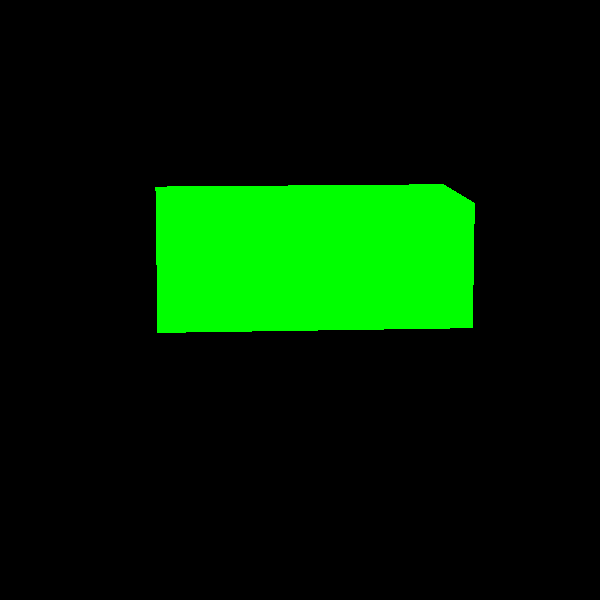
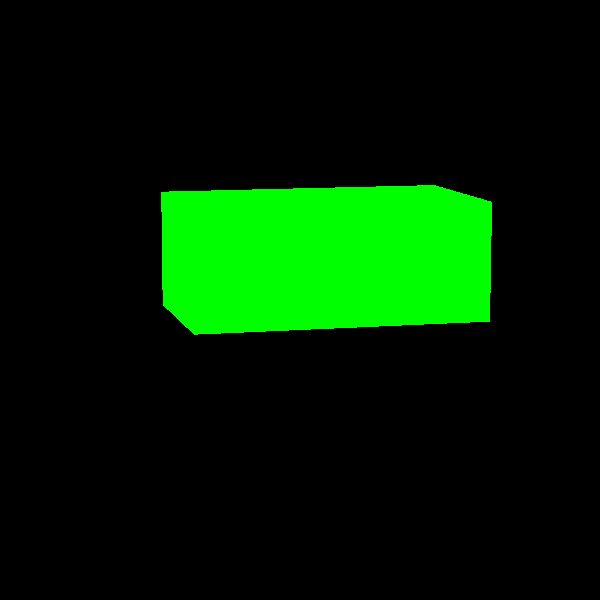
it finally output something!

diff --git a/src/main.cpp b/src/main.cpp
@@ -15,7 +15,7 @@ int main() {
     std::vector<Vec3fGrid::Ptr> VectorGrids = Reader::readGrids("dataset/single-res small.vdb");
     std::vector<vdbGrid> ScalarGrids = util::convertVectorGridsToScalarGrids(VectorGrids);
     std::shared_ptr<ImageRGB> image = std::make_shared<ImageRGB>(600, 600);
-    Camera cam(Vec3f(0, 10, 60), 19.5, 1, Vec3f(5, 0, 0), Vec3f(0, 1, 0), image);
+    Camera cam(Vec3f(-10, 10, 60), 19.5, 1, Vec3f(5, 0, 0), Vec3f(0, 1, 0), image);
     Scene scene;
     scene.setGrids(ScalarGrids);
     Integrator integrator(std::make_shared<Camera>(cam), std::make_shared<Scene>(scene));
